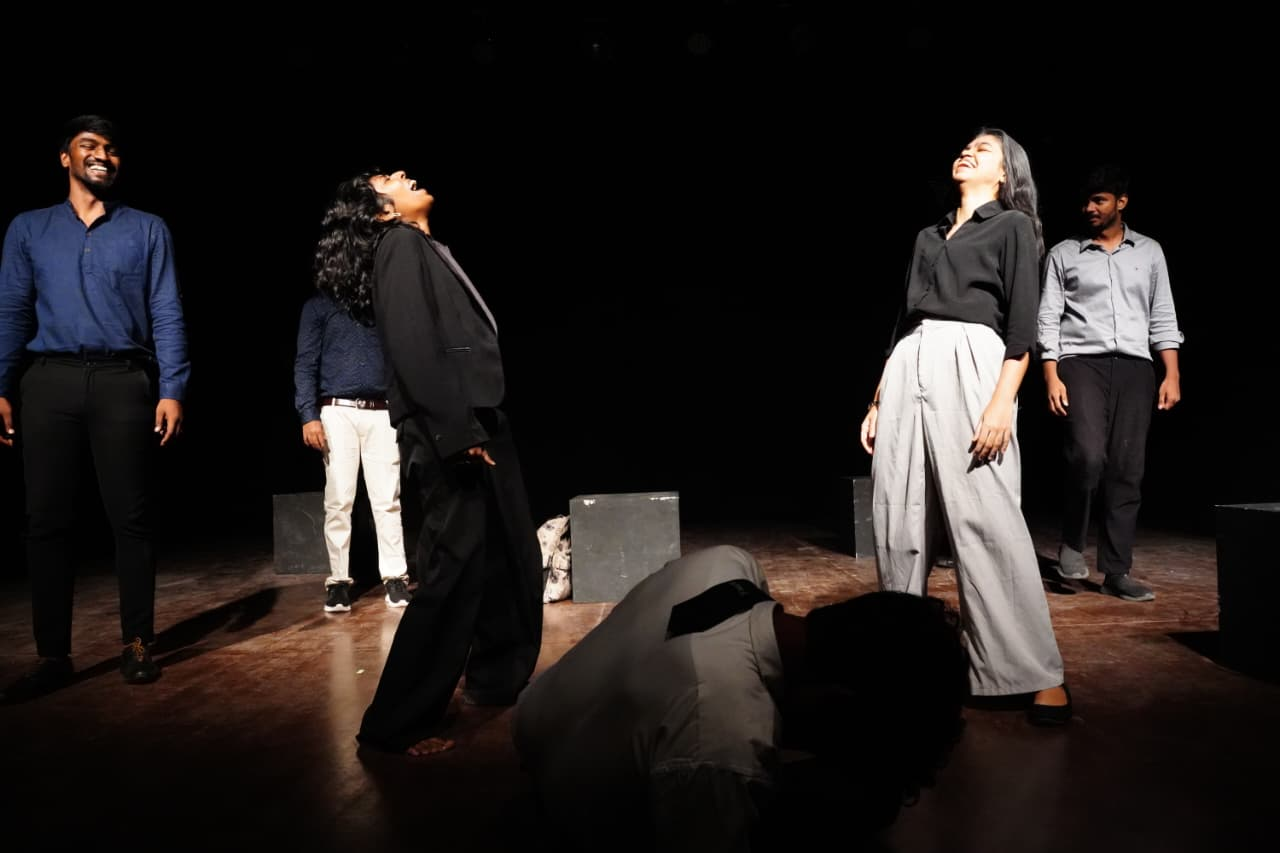
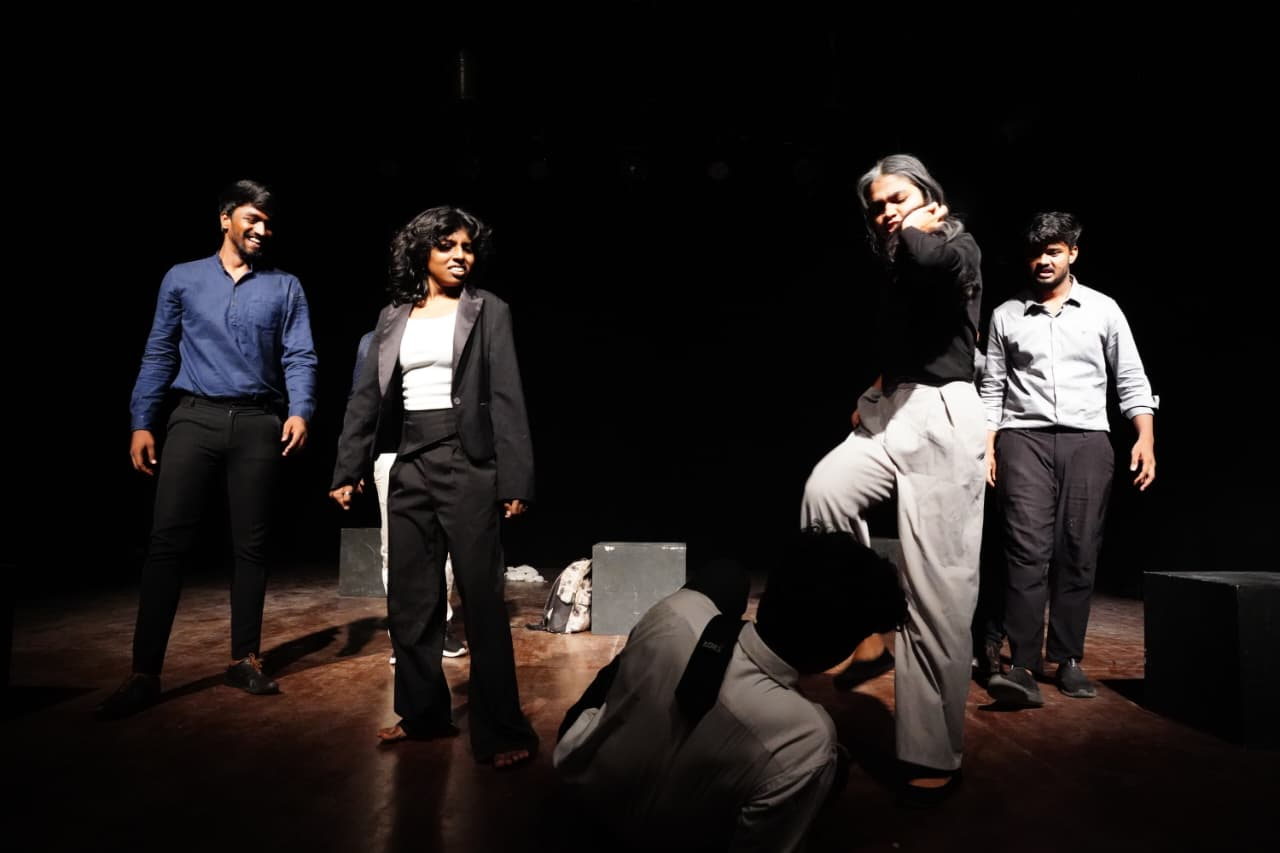
webform integration

diff --git a/src/pages/TestimonialsPage.tsx b/src/pages/TestimonialsPage.tsx
@@ -1,4 +1,4 @@
-import { useState } from 'react';
+import { useState, useEffect, useRef } from 'react';
 import { motion, AnimatePresence } from 'framer-motion';
 import { ArrowLeft } from 'lucide-react';
 
@@ -55,13 +55,132 @@ const portfolioData: PortfolioItem[] = [
 
 export default function TestimonialsPage() {
   const [hoveredId, setHoveredId] = useState<string | null>(null);
+  const [showWhatsApp, setShowWhatsApp] = useState(true);
+  // ── NEW: tracks whether footer is visible (drives mobile social bar) ──
+  const [showMobileSocial, setShowMobileSocial] = useState(false);
+  const footerRef = useRef<HTMLElement>(null);
+
+  useEffect(() => {
+    const footer = footerRef.current;
+    if (!footer) return;
+    const observer = new IntersectionObserver(
+      ([entry]) => {
+        const isVisible = entry.isIntersecting;
+        setShowWhatsApp(!isVisible);      // hide WhatsApp FAB when footer visible
+        setShowMobileSocial(isVisible);   // show mobile social bar ONLY when footer visible
+      },
+      { threshold: 0.2 }
+    );
+    observer.observe(footer);
+    return () => observer.disconnect();
+  }, []);
 
   return (
     <div className="bg-bone min-h-screen text-obsidian font-serif selection:bg-amber-100 selection:text-amber-900 relative">
 
+{/* ── VERTICAL SOCIAL SIDEBAR — desktop ─────────────────────────────── */}
+<div className="hidden lg:flex fixed left-6 top-1/2 -translate-y-1/2 z-40 flex-col items-center gap-4">
+
+  {/* Thin line */}
+  <div className="w-px h-6 bg-obsidian/10 rounded-full" />
+
+  {/* WhatsApp */}
+  <a href="https://wa.me/+919360460661" target="_blank" rel="noopener noreferrer"
+    className="group w-9 h-9 rounded-full bg-white border border-black/10 flex items-center justify-center transition-all duration-300 hover:scale-110 shadow-sm">
+    <svg viewBox="0 0 24 24" className="w-4 h-4 fill-current text-black transition-colors duration-300 group-hover:text-[#25D366]">
+      <path d="M20.52 3.48A11.91 11.91 0 0012.01 0C5.38 0 .01 5.37.01 12c0 2.12.55 4.2 1.6 6.03L0 24l6.14-1.61A11.94 11.94 0 0012.01 24C18.63 24 24 18.63 24 12a11.9 11.9 0 00-3.48-8.52zM12.01 21.8a9.8 9.8 0 01-5-1.38l-.36-.21-3.64.96.97-3.54-.23-.37A9.8 9.8 0 1121.8 12c0 5.4-4.39 9.8-9.79 9.8zm5.66-7.34c-.31-.16-1.83-.9-2.11-1-.28-.1-.48-.16-.68.16-.2.31-.78 1-.96 1.2-.18.2-.36.22-.67.08-.31-.16-1.31-.48-2.49-1.54-.92-.82-1.54-1.84-1.72-2.15-.18-.31-.02-.48.14-.64.14-.14.31-.36.46-.54.16-.18.2-.31.31-.51.1-.2.05-.38-.03-.54-.08-.16-.68-1.64-.93-2.25-.24-.58-.49-.5-.68-.51h-.58c-.2 0-.52.08-.79.38-.27.31-1.04 1.02-1.04 2.49s1.07 2.9 1.22 3.1c.16.2 2.1 3.21 5.08 4.5.71.31 1.26.49 1.69.62.71.22 1.36.19 1.87.12.57-.08 1.83-.75 2.09-1.47.26-.72.26-1.34.18-1.47-.08-.13-.28-.2-.59-.36z" />
+    </svg>
+  </a>
+
+  {/* Instagram */}
+  <a href="https://www.instagram.com/glassbonescreatives" target="_blank" rel="noopener noreferrer"
+    className="group w-9 h-9 rounded-full bg-white border border-black/10 flex items-center justify-center transition-all duration-300 hover:scale-110 shadow-sm">
+    <svg viewBox="0 0 24 24" className="w-4 h-4 fill-current text-black transition-colors duration-300 group-hover:text-[#DD2A7B]">
+      <path d="M7 2C4.24 2 2 4.24 2 7v10c0 2.76 2.24 5 5 5h10c2.76 0 5-2.24 5-5V7c0-2.76-2.24-5-5-5H7zm10 2a3 3 0 013 3v10a3 3 0 01-3 3H7a3 3 0 01-3-3V7a3 3 0 013-3h10zm-5 3.2A4.8 4.8 0 1016.8 12 4.8 4.8 0 0012 7.2zm0 7.9A3.1 3.1 0 1115.1 12 3.1 3.1 0 0112 15.1zm4.95-8.8a1.15 1.15 0 101.15 1.15 1.15 1.15 0 00-1.15-1.15z" />
+    </svg>
+  </a>
+
+  {/* Facebook */}
+  <a href="https://www.facebook.com/share/16a7YRxe5R/" target="_blank" rel="noopener noreferrer"
+    className="group w-9 h-9 rounded-full bg-white border border-black/10 flex items-center justify-center transition-all duration-300 hover:scale-110 shadow-sm">
+    <svg viewBox="0 0 24 24" className="w-4 h-4 fill-current text-black transition-colors duration-300 group-hover:text-[#1877F2]">
+      <path d="M22 12a10 10 0 10-11.5 9.9v-7H8v-2.9h2.5V9.8c0-2.5 1.5-3.9 3.8-3.9 1.1 0 2.2.2 2.2.2v2.4h-1.3c-1.3 0-1.7.8-1.7 1.6v1.9H17l-.4 2.9h-2.6v7A10 10 0 0022 12z" />
+    </svg>
+  </a>
+
+  {/* X / Twitter */}
+  <a href="https://twitter.com/yourprofile" target="_blank" rel="noopener noreferrer"
+    className="group w-9 h-9 rounded-full bg-white border border-black/10 flex items-center justify-center transition-all duration-300 hover:scale-110 shadow-sm">
+    <svg viewBox="0 0 24 24" className="w-4 h-4 fill-current text-black transition-colors duration-300 group-hover:text-obsidian">
+      <path d="M18.9 2H22l-7.5 8.6L23 22h-6.7l-5.2-6.8L5 22H2l8-9.2L1 2h6.8l4.7 6.1L18.9 2z" />
+    </svg>
+  </a>
+
+  {/* YouTube */}
+  <a href="https://youtube.com/@yourchannel" target="_blank" rel="noopener noreferrer"
+    className="group w-9 h-9 rounded-full bg-white border border-black/10 flex items-center justify-center transition-all duration-300 hover:scale-110 shadow-sm">
+    <svg viewBox="0 0 24 24" className="w-4 h-4 fill-current text-black transition-colors duration-300 group-hover:text-[#FF0000]">
+      <path d="M23.5 6.2a3 3 0 00-2.1-2.1C19.6 3.5 12 3.5 12 3.5s-7.6 0-9.4.6a3 3 0 00-2.1 2.1A31 31 0 000 12a31 31 0 00.5 5.8 3 3 0 002.1 2.1c1.8.6 9.4.6 9.4.6s7.6 0 9.4-.6a3 3 0 002.1-2.1A31 31 0 0024 12a31 31 0 00-.5-5.8zM9.75 15.5v-7l6 3.5-6 3.5z" />
+    </svg>
+  </a>
+
+  {/* Phone */}
+  <a href="tel:+919360460661"
+    className="group w-9 h-9 rounded-full bg-white border border-black/10 flex items-center justify-center transition-all duration-300 hover:scale-110 shadow-sm">
+    <svg viewBox="0 0 24 24" className="w-4 h-4 fill-current text-black transition-colors duration-300 group-hover:text-[#0EA5E9]">
+      <path d="M6.6 10.8a15.1 15.1 0 006.6 6.6l2.2-2.2a1 1 0 011-.24c1.1.36 2.3.56 3.6.56a1 1 0 011 1V21a1 1 0 01-1 1C10.3 22 2 13.7 2 3a1 1 0 011-1h3.5a1 1 0 011 1c0 1.3.2 2.5.56 3.6a1 1 0 01-.24 1L6.6 10.8z" />
+    </svg>
+  </a>
+
+  <div className="w-px h-6 bg-obsidian/10 rounded-full" />
+</div>
+
+{/* ── MOBILE SOCIAL BAR — slides up only when footer is in view ──────── */}
+<div
+  className={`lg:hidden fixed bottom-0 left-0 right-0 z-50 bg-bone/90 backdrop-blur-md border-t border-black/5 px-4 py-3 flex items-center justify-around
+    transition-transform duration-500 ease-in-out
+    ${showMobileSocial ? 'translate-y-0' : 'translate-y-full'}`}
+>
+  <a href="https://wa.me/+919360460661" target="_blank" rel="noopener noreferrer"
+    className="group w-9 h-9 rounded-full bg-white border border-black/10 flex items-center justify-center transition-all duration-300 active:scale-110 shadow-sm">
+    <svg viewBox="0 0 24 24" className="w-4 h-4 fill-current text-black group-hover:text-[#25D366]">
+      <path d="M20.52 3.48A11.91 11.91 0 0012.01 0C5.38 0 .01 5.37.01 12c0 2.12.55 4.2 1.6 6.03L0 24l6.14-1.61A11.94 11.94 0 0012.01 24C18.63 24 24 18.63 24 12a11.9 11.9 0 00-3.48-8.52zM12.01 21.8a9.8 9.8 0 01-5-1.38l-.36-.21-3.64.96.97-3.54-.23-.37A9.8 9.8 0 1121.8 12c0 5.4-4.39 9.8-9.79 9.8zm5.66-7.34c-.31-.16-1.83-.9-2.11-1-.28-.1-.48-.16-.68.16-.2.31-.78 1-.96 1.2-.18.2-.36.22-.67.08-.31-.16-1.31-.48-2.49-1.54-.92-.82-1.54-1.84-1.72-2.15-.18-.31-.02-.48.14-.64.14-.14.31-.36.46-.54.16-.18.2-.31.31-.51.1-.2.05-.38-.03-.54-.08-.16-.68-1.64-.93-2.25-.24-.58-.49-.5-.68-.51h-.58c-.2 0-.52.08-.79.38-.27.31-1.04 1.02-1.04 2.49s1.07 2.9 1.22 3.1c.16.2 2.1 3.21 5.08 4.5.71.31 1.26.49 1.69.62.71.22 1.36.19 1.87.12.57-.08 1.83-.75 2.09-1.47.26-.72.26-1.34.18-1.47-.08-.13-.28-.2-.59-.36z" />
+    </svg>
+  </a>
+  <a href="https://www.instagram.com/glassbonescreatives" target="_blank" rel="noopener noreferrer"
+    className="group w-9 h-9 rounded-full bg-white border border-black/10 flex items-center justify-center transition-all duration-300 active:scale-110 shadow-sm">
+    <svg viewBox="0 0 24 24" className="w-4 h-4 fill-current text-black group-hover:text-[#DD2A7B]">
+      <path d="M7 2C4.24 2 2 4.24 2 7v10c0 2.76 2.24 5 5 5h10c2.76 0 5-2.24 5-5V7c0-2.76-2.24-5-5-5H7zm10 2a3 3 0 013 3v10a3 3 0 01-3 3H7a3 3 0 01-3-3V7a3 3 0 013-3h10zm-5 3.2A4.8 4.8 0 1016.8 12 4.8 4.8 0 0012 7.2zm0 7.9A3.1 3.1 0 1115.1 12 3.1 3.1 0 0112 15.1zm4.95-8.8a1.15 1.15 0 101.15 1.15 1.15 1.15 0 00-1.15-1.15z" />
+    </svg>
+  </a>
+  <a href="https://www.facebook.com/share/16a7YRxe5R/" target="_blank" rel="noopener noreferrer"
+    className="group w-9 h-9 rounded-full bg-white border border-black/10 flex items-center justify-center transition-all duration-300 active:scale-110 shadow-sm">
+    <svg viewBox="0 0 24 24" className="w-4 h-4 fill-current text-black group-hover:text-[#1877F2]">
+      <path d="M22 12a10 10 0 10-11.5 9.9v-7H8v-2.9h2.5V9.8c0-2.5 1.5-3.9 3.8-3.9 1.1 0 2.2.2 2.2.2v2.4h-1.3c-1.3 0-1.7.8-1.7 1.6v1.9H17l-.4 2.9h-2.6v7A10 10 0 0022 12z" />
+    </svg>
+  </a>
+  <a href="https://twitter.com/yourprofile" target="_blank" rel="noopener noreferrer"
+    className="group w-9 h-9 rounded-full bg-white border border-black/10 flex items-center justify-center transition-all duration-300 active:scale-110 shadow-sm">
+    <svg viewBox="0 0 24 24" className="w-4 h-4 fill-current text-black">
+      <path d="M18.9 2H22l-7.5 8.6L23 22h-6.7l-5.2-6.8L5 22H2l8-9.2L1 2h6.8l4.7 6.1L18.9 2z" />
+    </svg>
+  </a>
+  <a href="https://youtube.com/@yourchannel" target="_blank" rel="noopener noreferrer"
+    className="group w-9 h-9 rounded-full bg-white border border-black/10 flex items-center justify-center transition-all duration-300 active:scale-110 shadow-sm">
+    <svg viewBox="0 0 24 24" className="w-4 h-4 fill-current text-black group-hover:text-[#FF0000]">
+      <path d="M23.5 6.2a3 3 0 00-2.1-2.1C19.6 3.5 12 3.5 12 3.5s-7.6 0-9.4.6a3 3 0 00-2.1 2.1A31 31 0 000 12a31 31 0 00.5 5.8 3 3 0 002.1 2.1c1.8.6 9.4.6 9.4.6s7.6 0 9.4-.6a3 3 0 002.1-2.1A31 31 0 0024 12a31 31 0 00-.5-5.8zM9.75 15.5v-7l6 3.5-6 3.5z" />
+    </svg>
+  </a>
+  <a href="tel:+919360460661"
+    className="group w-9 h-9 rounded-full bg-white border border-black/10 flex items-center justify-center transition-all duration-300 active:scale-110 shadow-sm">
+    <svg viewBox="0 0 24 24" className="w-4 h-4 fill-current text-black group-hover:text-[#0EA5E9]">
+      <path d="M6.6 10.8a15.1 15.1 0 006.6 6.6l2.2-2.2a1 1 0 011-.24c1.1.36 2.3.56 3.6.56a1 1 0 011 1V21a1 1 0 01-1 1C10.3 22 2 13.7 2 3a1 1 0 011-1h3.5a1 1 0 011 1c0 1.3.2 2.5.56 3.6a1 1 0 01-.24 1L6.6 10.8z" />
+    </svg>
+  </a>
+</div>
+
       {/* ── CUSTOM MINIMAL HEADER ───────────────────────────────────────── */}
       <header className="sticky top-0 bg-bone/80 backdrop-blur-md border-b border-black/5 z-40 h-20 flex items-center justify-between px-6 md:px-16">
-        {/* Logo */}
         <div className="flex items-center space-x-3 min-w-0 flex-1">
           <div className="relative w-9 h-9 md:w-10 md:h-10 rounded-lg overflow-hidden flex-shrink-0 bg-black/5">
             <img src="/Glass.png" alt="Glassbones Logo" className="w-full h-full object-contain" />
@@ -70,8 +189,6 @@ export default function TestimonialsPage() {
             Glassbones Creative
           </span>
         </div>
-
-        {/* Back to Site */}
         <a
           href="/"
           className="flex items-center gap-2 text-xs uppercase tracking-widest font-sans font-semibold text-obsidian/50 hover:text-obsidian transition-all relative group flex-shrink-0 ml-4"
@@ -84,11 +201,8 @@ export default function TestimonialsPage() {
 
       {/* ── HERO BANNER ────────────────────────────────────────────────────── */}
       <section className="pt-8 pb-12 md:pt-14 md:pb-20 text-center max-w-3xl mx-auto px-6 border-b border-black/5">
-        <span className="text-xs font-sans tracking-[0.4em] uppercase text-crystal font-bold mb-4 block">
-          Portfolio Anthology
-        </span>
         <h1 className="text-4xl md:text-6xl font-serif tracking-tight font-black mb-6 text-obsidian leading-tight">
-          Our Shared Works
+          Testimonials
         </h1>
         <p className="text-base md:text-lg text-obsidian/60 leading-relaxed font-sans max-w-2xl mx-auto">
           Explore our collection of theatrical creations, local script workshops, and narrative
@@ -107,9 +221,7 @@ export default function TestimonialsPage() {
               whileInView={{ opacity: 1, y: 0 }}
               viewport={{ once: true, margin: '-80px' }}
               transition={{ duration: 0.6, ease: 'easeOut' }}
-              className={`flex flex-col gap-8 md:gap-16 items-center ${
-                isEven ? 'md:flex-row' : 'md:flex-row-reverse'
-              }`}
+              className={`flex flex-col gap-8 md:gap-16 items-center ${isEven ? 'md:flex-row' : 'md:flex-row-reverse'}`}
             >
               {/* Image */}
               <div
@@ -125,16 +237,10 @@ export default function TestimonialsPage() {
                   />
                 ) : (
                   <div className="w-full h-full flex flex-col items-center justify-center border-2 border-dashed border-black/10 p-6">
-                    <p className="text-xs font-sans uppercase text-obsidian/30 tracking-wider">
-                      Image Placeholder
-                    </p>
+                    <p className="text-xs font-sans uppercase text-obsidian/30 tracking-wider">Image Placeholder</p>
                   </div>
                 )}
-
-                {/* Overlay gradient */}
                 <div className="absolute inset-0 bg-gradient-to-t from-obsidian/20 via-transparent to-transparent pointer-events-none rounded-2xl" />
-
-                {/* Category pill on hover */}
                 <AnimatePresence>
                   {hoveredId === item.id && (
                     <motion.div
@@ -169,39 +275,29 @@ export default function TestimonialsPage() {
       </main>
 
       {/* ── FOOTER ─────────────────────────────────────────────────────────── */}
-      <footer className="py-12 border-t border-black/5 bg-bone">
-        <div className="container mx-auto px-6 flex flex-col md:flex-row justify-between items-center gap-8">
-
-          {/* Logo */}
+      <footer ref={footerRef} className="pt-12 pb-28 lg:pb-12 border-t border-black/5 bg-bone">
+        <div className="container mx-auto px-6 flex flex-col md:flex-row justify-between items-center gap-6">
           <div className="text-xl font-serif font-bold tracking-tight">
             GLASSBONES CREATIVE
           </div>
-
-          {/* Navigation */}
-          <div className="flex gap-10 text-xs uppercase tracking-widest text-obsidian/50">
-            <a href="/#services" className="hover:text-obsidian transition-colors duration-300">
-              Services
-            </a>
-            <a href="/#contact" className="hover:text-obsidian transition-colors duration-300">
-              Contact
-            </a>
+          <div className="flex gap-10 text-xs font-sans uppercase tracking-widest text-obsidian/50">
+            <a href="/#services" className="hover:text-obsidian transition-colors duration-300">Services</a>
+            <a href="/#contact" className="hover:text-obsidian transition-colors duration-300">Contact</a>
           </div>
-
-          {/* Copyright */}
-          <p className="text-xs text-obsidian/30 hover:text-obsidian transition-colors duration-300 uppercase tracking-[0.2em] font-medium md:self-center">
+          <p className="text-xs text-obsidian/30 hover:text-obsidian transition-colors duration-300 uppercase tracking-[0.2em] font-medium font-sans text-center md:text-left md:self-start md:mt-2">
             &copy; 2026 Glassbones Creative . Built for Clarity.
           </p>
-
         </div>
       </footer>
 
-      {/* ── FLOATING WHATSAPP — always visible ─────────────────────────────── */}
+      {/* ── FLOATING WHATSAPP — hides at footer ────────────────────────────── */}
       <a
         href="https://wa.me/919360460661?text=Greetings%20from%20Glassbones!%20What%20can%20we%20help%20you%20with%3F"
         target="_blank"
         rel="noopener noreferrer"
         aria-label="Chat on WhatsApp"
-        className="fixed bottom-6 right-6 z-50 w-14 h-14 rounded-full bg-[#25D366] text-white flex items-center justify-center shadow-lg hover:scale-110 active:scale-110 transition-all duration-300"
+        className={`fixed bottom-6 right-6 z-50 w-14 h-14 rounded-full bg-[#25D366] text-white flex items-center justify-center shadow-lg hover:scale-110 active:scale-110 transition-all duration-300
+          ${showWhatsApp ? "opacity-100 translate-y-0 pointer-events-auto" : "opacity-0 translate-y-4 pointer-events-none"}`}
       >
         <svg viewBox="0 0 24 24" className="w-7 h-7 fill-current">
           <path d="M20.52 3.48A11.91 11.91 0 0012.01 0C5.38 0 .01 5.37.01 12c0 2.12.55 4.2 1.6 6.03L0 24l6.14-1.61A11.94 11.94 0 0012.01 24C18.63 24 24 18.63 24 12a11.9 11.9 0 00-3.48-8.52zM12.01 21.8a9.8 9.8 0 01-5-1.38l-.36-.21-3.64.96.97-3.54-.23-.37A9.8 9.8 0 1121.8 12c0 5.4-4.39 9.8-9.79 9.8zm5.66-7.34c-.31-.16-1.83-.9-2.11-1-.28-.1-.48-.16-.68.16-.2.31-.78 1-.96 1.2-.18.2-.36.22-.67.08-.31-.16-1.31-.48-2.49-1.54-.92-.82-1.54-1.84-1.72-2.15-.18-.31-.02-.48.14-.64.14-.14.31-.36.46-.54.16-.18.2-.31.31-.51.1-.2.05-.38-.03-.54-.08-.16-.68-1.64-.93-2.25-.24-.58-.49-.5-.68-.51h-.58c-.2 0-.52.08-.79.38-.27.31-1.04 1.02-1.04 2.49s1.07 2.9 1.22 3.1c.16.2 2.1 3.21 5.08 4.5.71.31 1.26.49 1.69.62.71.22 1.36.19 1.87.12.57-.08 1.83-.75 2.09-1.47.26-.72.26-1.34.18-1.47-.08-.13-.28-.2-.59-.36z" />

diff --git a/src/App.tsx b/src/App.tsx
@@ -289,8 +289,9 @@ const App: React.FC = () => {
 
                 return (
                   <form ref={formRef} onSubmit={handleSubmit} className="reveal [transition-delay:200ms] space-y-4">
-                    <input type="hidden" name="access_key" value="paste-your-key-here" />
+                    <input type="hidden" name="access_key" value= {import.meta.env.VITE_WEB3FORMS_KEY} />
                     <input type="hidden" name="subject" value="New Inquiry — Glassbones Creative " />
+                    <input type="checkbox" name="botcheck" style={{ display: "none" }} />
                     <input type="text" name="name" placeholder="Full Name" required
                       className="bg-white border border-black/10 rounded-xl px-5 py-3 text-sm outline-none focus:border-crystal transition-colors w-full shadow-sm" />
                     <input type="email" name="email" placeholder="Email Address" required
